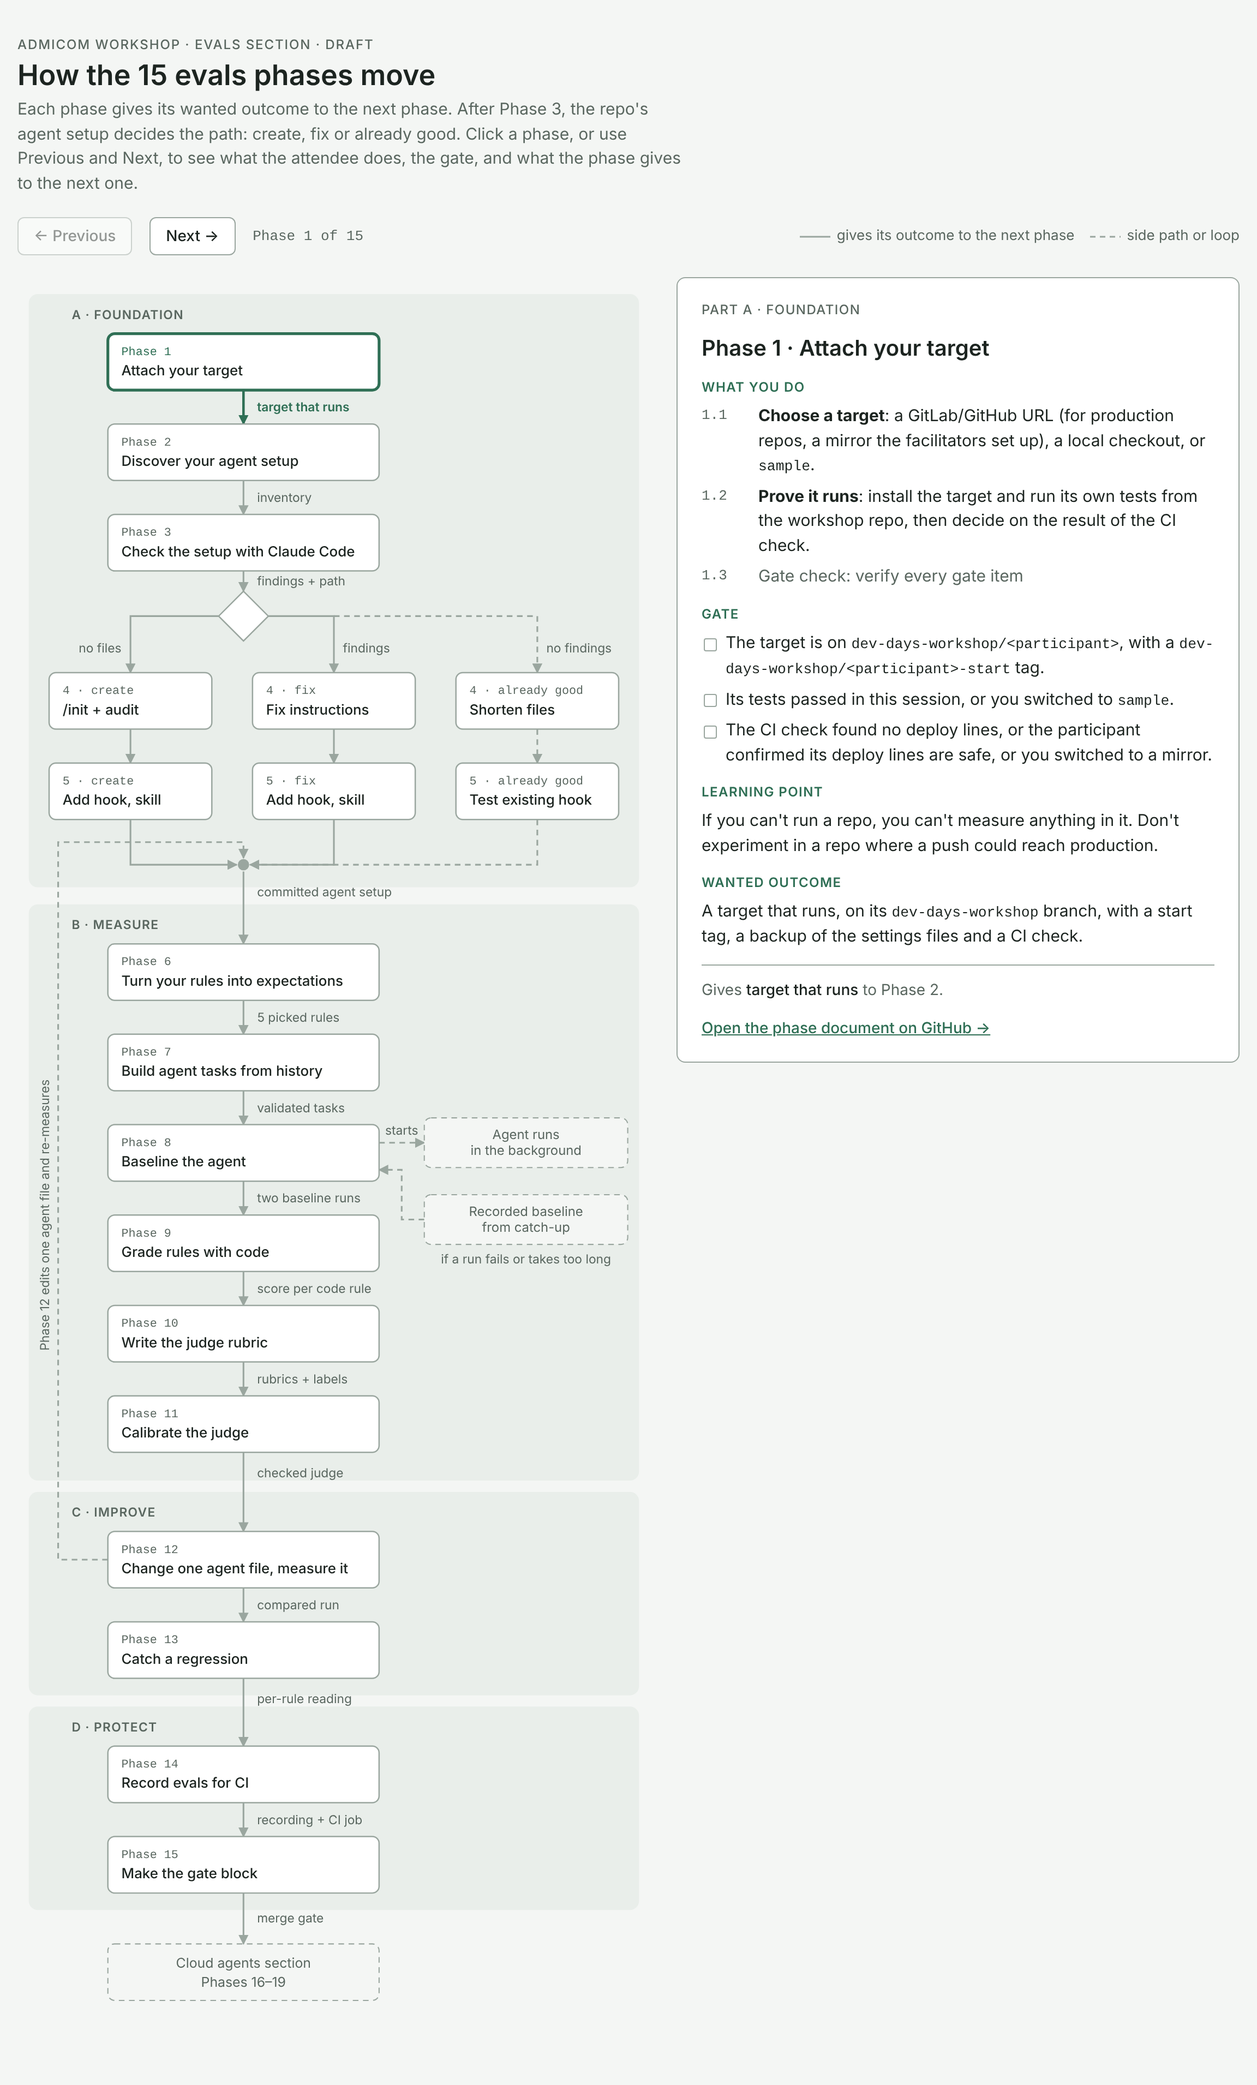
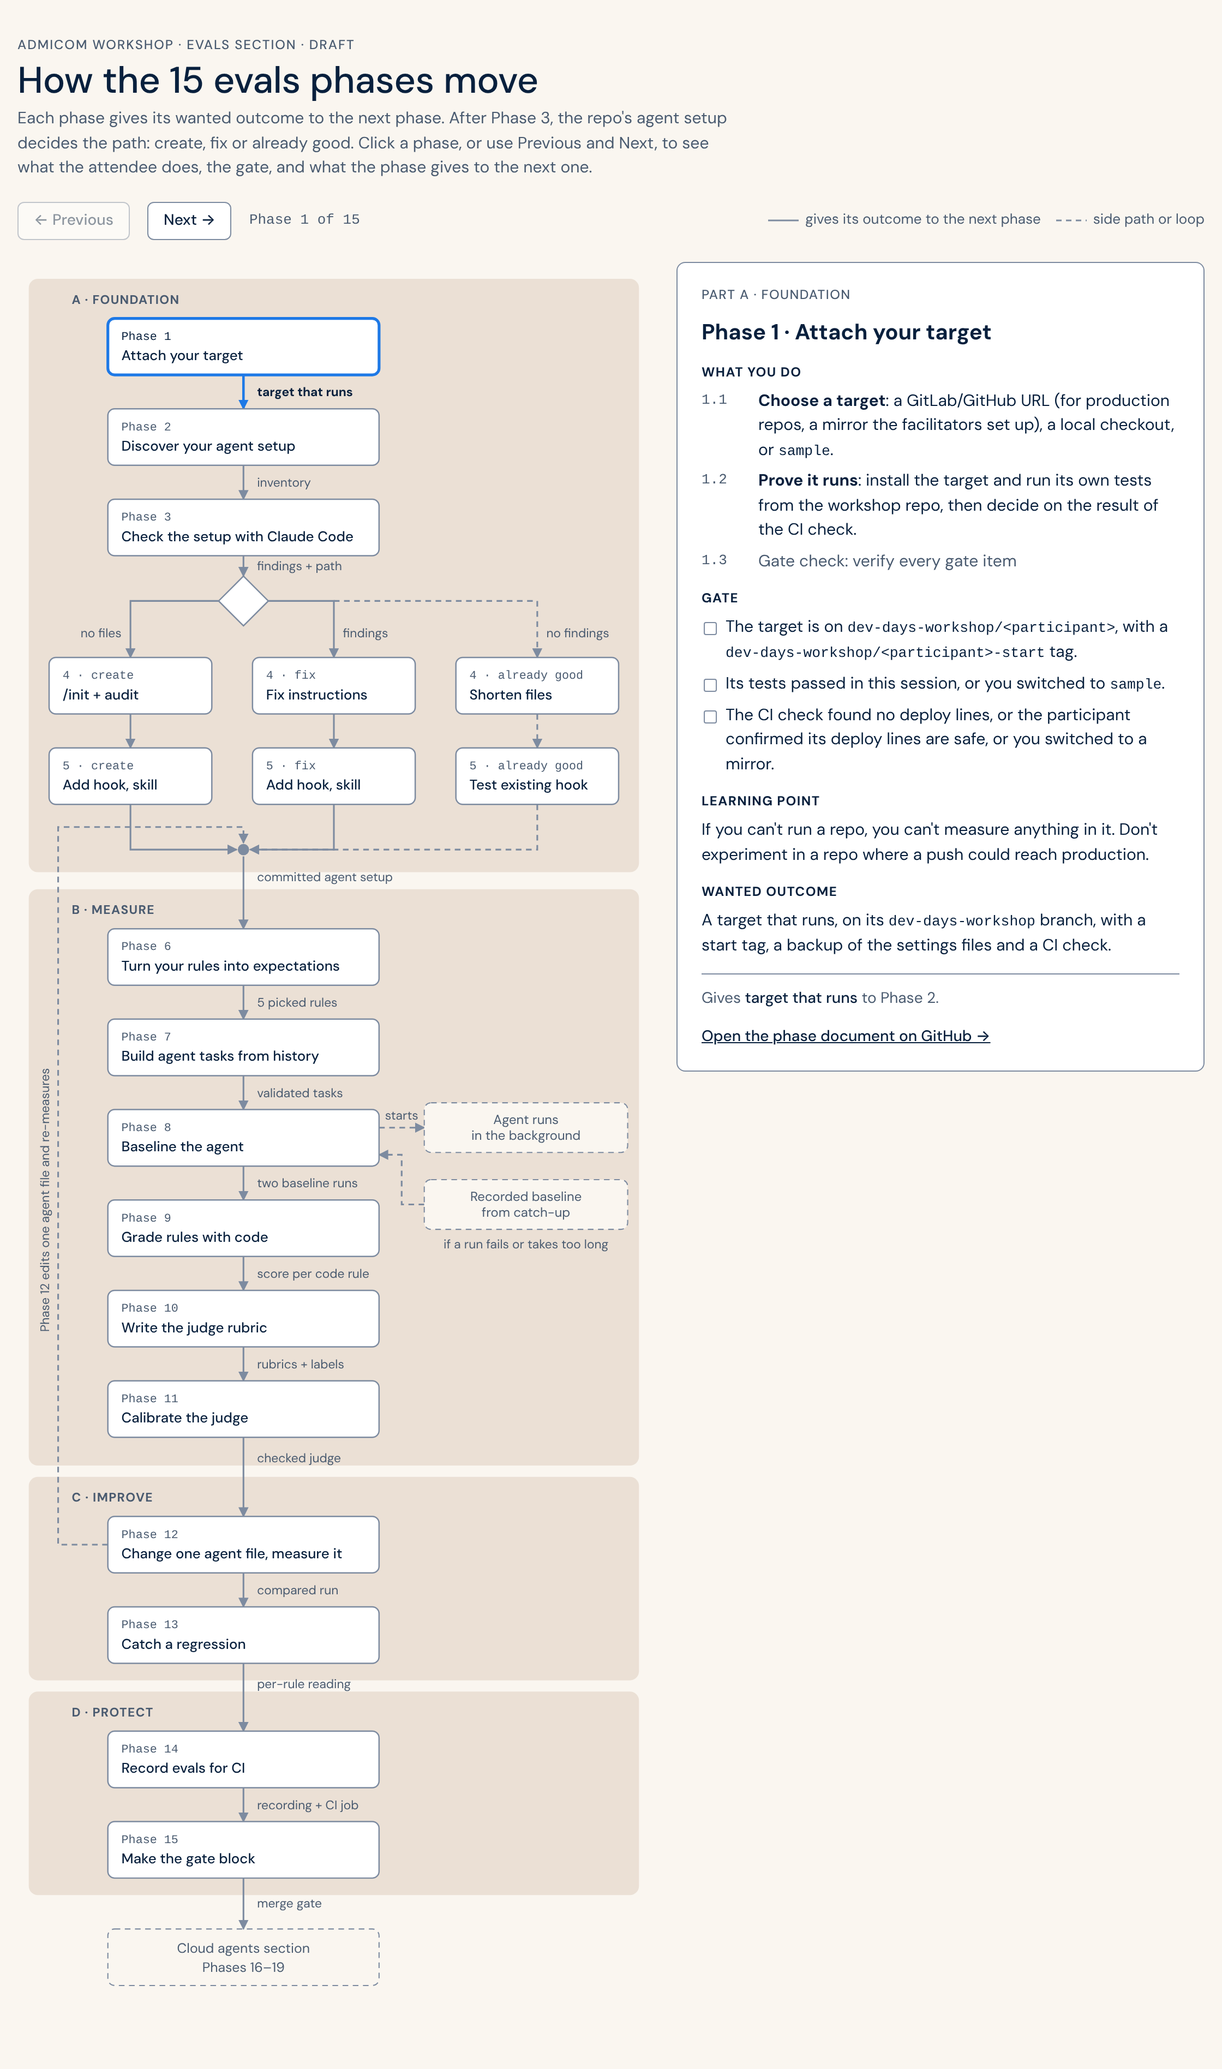
Wunderdog look for the start page and flow page: styles and pages
The logo came in 607a2c0; this adds the rest of that change:
- docs/assets/site.css: brand colours and fonts from wunderdog.fi, light
  and dark themes, shared nav bar with the logo
- start page: navy hero and cards for the flow and the slides
- flow page: brand colours, DM Sans, the nav bar; README pictures redrawn

Claude-Session: https://claude.ai/code/session_01EuyF4eNHb6VuDoPVNkBZbV

Changed region(s): [[0.0, 0.0, 0.9688, 0.9647], [0.9062, 0.0934, 0.9688, 0.1245]]

diff --git a/docs/index.html b/docs/index.html
@@ -2,58 +2,76 @@
 <html lang="en">
 <head>
 <meta charset="utf-8">
-<meta name="viewport" content="width=device-width, initial-scale=1">
+<meta name="viewport" content="width=device-width, initial-scale=1, viewport-fit=cover">
 <title>Evals & Cloud Agents Workshop</title>
+<link rel="preconnect" href="https://fonts.googleapis.com">
+<link rel="preconnect" href="https://fonts.gstatic.com" crossorigin>
+<link rel="stylesheet" href="https://fonts.googleapis.com/css2?family=DM+Sans:opsz,wght@9..40,400;9..40,500;9..40,700&family=DM+Mono:wght@400;500&display=swap">
+<link rel="stylesheet" href="assets/site.css">
 <style>
-:root {
-  --bg: #f4f6f4; --surface: #ffffff; --fg: #1c2420; --muted: #5a6760; --line: #9aa69f; --accent: #2f6f55;
-  --sans: "IBM Plex Sans", system-ui, -apple-system, "Segoe UI", sans-serif;
-}
-@media (prefers-color-scheme: dark) {
-  :root { --bg: #111714; --surface: #18201c; --fg: #e2e9e5; --muted: #98a69e; --line: #5f6d65; --accent: #7fd1a8; color-scheme: dark; }
-}
-body { margin: 0; background: var(--bg); color: var(--fg); font-family: var(--sans); font-size: 16px; line-height: 1.5; }
-nav { background: var(--surface); border-bottom: 1px solid var(--line); }
-nav ul { max-width: 760px; margin: 0 auto; padding: 0 16px; list-style: none; display: flex; flex-wrap: wrap; gap: 0 24px; }
-nav a { display: block; padding: 14px 0; color: var(--fg); font-weight: 500; font-size: 15px; text-decoration: none; }
-nav a:hover, nav a:focus-visible { color: var(--accent); text-decoration: underline; }
-main { max-width: 760px; margin: 0 auto; padding: 48px 16px; }
-.eyebrow { font-size: 12px; letter-spacing: .08em; text-transform: uppercase; color: var(--muted); font-weight: 500; }
-h1 { margin: 4px 0 8px; font-size: 28px; line-height: 1.2; font-weight: 600; }
-p { margin: 0; color: var(--muted); }
-main ul { list-style: none; padding: 0; margin: 32px 0 0; display: grid; gap: 12px; }
-main li { background: var(--surface); border: 1px solid var(--line); border-radius: 8px; padding: 16px 18px; }
-main li a { color: var(--fg); font-weight: 600; font-size: 18px; text-decoration: none; }
-main li a:hover, main li a:focus-visible { color: var(--accent); text-decoration: underline; }
-main li p { margin-top: 4px; }
-.extra { margin-top: 8px; font-size: 14px; }
-.extra a { color: var(--accent); }
+body { margin: 0; background: var(--bg); color: var(--fg); font-family: var(--sans); font-size: 16px; line-height: 1.55; }
+.hero { background: var(--wd-navy); color: var(--wd-offwhite); border-bottom: 1px solid var(--hair); }
+.hero .inner { max-width: 1120px; margin: 0 auto; box-sizing: border-box; padding: 72px 16px 80px; }
+.eyebrow { margin: 0 0 16px; font-size: 13px; letter-spacing: .14em; text-transform: uppercase; color: var(--wd-light-blue); font-weight: 500; }
+h1 { margin: 0; max-width: 14ch; font-size: clamp(40px, 7vw, 72px); line-height: 1.05; font-weight: 500; letter-spacing: -.01em; color: var(--wd-sand); }
+.hero p.lede { margin: 24px 0 0; max-width: 52ch; font-size: 18px; color: #d5dde8; }
+.cards { max-width: 1120px; margin: 0 auto; box-sizing: border-box; padding: 48px 16px 72px; display: grid; grid-template-columns: repeat(auto-fit, minmax(300px, 1fr)); gap: 20px; }
+.card { background: var(--surface); border: 1px solid var(--hair); border-radius: 16px; padding: 28px; display: flex; flex-direction: column; gap: 10px; }
+.card .num { font-family: var(--mono); font-size: 14px; color: var(--muted); }
+.card h2 { margin: 0; font-size: 30px; line-height: 1.15; font-weight: 500; }
+.card p { margin: 0; color: var(--muted); }
+.card .actions { margin-top: auto; padding-top: 14px; display: flex; flex-wrap: wrap; gap: 10px; }
+.btn { display: inline-block; padding: 10px 20px; border-radius: 999px; font-size: 15px; font-weight: 500; text-decoration: none; border: 1px solid var(--fg); }
+.btn.primary { background: var(--fg); color: var(--bg); }
+.btn.secondary { background: transparent; color: var(--fg); }
+.btn:hover { opacity: .85; }
+.btn:focus-visible { outline: 2px solid var(--accent); outline-offset: 3px; }
+footer { border-top: 1px solid var(--hair); }
+footer .inner { max-width: 1120px; margin: 0 auto; box-sizing: border-box; padding: 20px 16px 32px; font-size: 14px; color: var(--muted); }
+footer a { color: var(--fg); }
 </style>
 </head>
 <body>
-<nav aria-label="Workshop pages">
-  <ul>
-    <li><a href="phase-flow/">Evals phase flow</a></li>
-    <li><a href="slides/">Slides</a></li>
-    <li><a href="slides/evals-cloud-agents.pdf" download>Slides PDF with speaker notes</a></li>
-    <li><a href="https://github.com/wunderdogsw/evals-cloud-agents-workshop">Repository</a></li>
-  </ul>
+<nav class="site-nav" aria-label="Workshop pages">
+  <div class="inner">
+    <a class="brand" href="./" aria-label="Workshop home"><span class="wd-logo" role="img" aria-label="Wunderdog"></span></a>
+    <ul>
+      <li><a class="link" href="phase-flow/">Evals phase flow</a></li>
+      <li><a class="link" href="slides/">Slides</a></li>
+      <li><a class="link" href="slides/evals-cloud-agents.pdf" download>Slides PDF with speaker notes</a></li>
+      <li><a class="link" href="https://github.com/wunderdogsw/evals-cloud-agents-workshop">Repository</a></li>
+    </ul>
+  </div>
 </nav>
-<main>
-  <span class="eyebrow">Admicom × Wunderdog</span>
-  <h1>Evals & Cloud Agents Workshop</h1>
-  <p>Pages for the 1.5-day workshop.</p>
-  <ul>
-    <li>
-      <a href="phase-flow/">Evals phase flow</a>
-      <p>The 15 evals phases. Click a phase to see what you do, the gate, the learning point and the wanted outcome.</p>
-    </li>
-    <li>
-      <a href="slides/">Slides</a>
-      <p>The workshop slides. Use the arrow keys to move between slides. Press N or the Notes button to see the speaker notes.</p>
-      <p class="extra"><a href="slides/evals-cloud-agents.pdf" download>Download the slides as PDF, with the speaker notes after each slide</a></p>
-    </li>
-  </ul>
+
+<header class="hero">
+  <div class="inner">
+    <p class="eyebrow">Admicom × Wunderdog · DevDays workshop</p>
+    <h1>Evals & Cloud Agents</h1>
+    <p class="lede">A 1.5-day workshop. Day 1: measure how well a coding agent follows your repo's rules. Day 2: hand real work to agents and use that measurement to decide what to merge.</p>
+  </div>
+</header>
+
+<main class="cards">
+  <section class="card">
+    <span class="num">01</span>
+    <h2>Evals phase flow</h2>
+    <p>The 15 evals phases. Click a phase to see what you do, the gate, the learning point and the wanted outcome.</p>
+    <div class="actions"><a class="btn primary" href="phase-flow/">Open the flow</a></div>
+  </section>
+  <section class="card">
+    <span class="num">02</span>
+    <h2>Slides</h2>
+    <p>The workshop slides. Use the arrow keys to move between slides. Press N or the Notes button to see the speaker notes.</p>
+    <div class="actions">
+      <a class="btn primary" href="slides/">Open the slides</a>
+      <a class="btn secondary" href="slides/evals-cloud-agents.pdf" download>PDF with speaker notes</a>
+    </div>
+  </section>
 </main>
+
+<footer>
+  <div class="inner">Workshop material by Wunderdog. Source and phase documents: <a href="https://github.com/wunderdogsw/evals-cloud-agents-workshop">GitHub repository</a>.</div>
+</footer>
 </body>
 </html>

diff --git a/docs/phase-flow/index.html b/docs/phase-flow/index.html
@@ -4,34 +4,16 @@
 <meta charset="utf-8">
 <meta name="viewport" content="width=device-width,initial-scale=1,viewport-fit=cover">
 <title>Evals Phase Flow</title>
-<link rel="stylesheet" href="https://fonts.googleapis.com/css2?family=IBM+Plex+Sans:wght@400;500;600&family=IBM+Plex+Mono:wght@400;500&display=swap">
+<link rel="preconnect" href="https://fonts.googleapis.com">
+<link rel="preconnect" href="https://fonts.gstatic.com" crossorigin>
+<link rel="stylesheet" href="https://fonts.googleapis.com/css2?family=DM+Sans:opsz,wght@9..40,400;9..40,500;9..40,700&family=DM+Mono:wght@400;500&display=swap">
+<link rel="stylesheet" href="../assets/site.css">
 <style>
 /* Layout: controls on top; flowchart (vertical, scrollable) on the left, sticky phase detail on the right; stacks on phones with the detail first. */
-:root {
-  --bg: #f4f6f4;
-  --surface: #ffffff;
-  --fg: #1c2420;
-  --muted: #5a6760;
-  --line: #9aa69f;
-  --band: #e9eeea;
-  --accent: #2f6f55;
-  --accent-soft: #d7ebe1;
-  --sans: "IBM Plex Sans", system-ui, -apple-system, "Segoe UI", sans-serif;
-  --mono: "IBM Plex Mono", ui-monospace, "SF Mono", Menlo, Consolas, monospace;
-}
-@media (prefers-color-scheme: dark) {
-  :root:not([data-theme="light"]) {
-    --bg: #111714; --surface: #18201c; --fg: #e2e9e5; --muted: #98a69e; --line: #5f6d65;
-    --band: #1a231e; --accent: #7fd1a8; --accent-soft: #1f3b2e; color-scheme: dark;
-  }
-}
-:root[data-theme="dark"] {
-  --bg: #111714; --surface: #18201c; --fg: #e2e9e5; --muted: #98a69e; --line: #5f6d65;
-  --band: #1a231e; --accent: #7fd1a8; --accent-soft: #1f3b2e; color-scheme: dark;
-}
+/* Colours, fonts and the nav bar come from ../assets/site.css (Wunderdog look). */
 body { margin: 0; background: var(--bg); color: var(--fg); font-family: var(--sans); font-size: 15px; line-height: 1.5; }
 .wrap {
-  max-width: 1120px; margin: 0 auto;
+  max-width: 1120px; margin: 0 auto; box-sizing: border-box;
   padding-left: max(16px, env(safe-area-inset-left, 0px));
   padding-right: max(16px, env(safe-area-inset-right, 0px));
   padding-block: 32px 56px;
@@ -39,9 +21,9 @@ body { margin: 0; background: var(--bg); color: var(--fg); font-family: var(--sa
 }
 header { display: flex; flex-direction: column; gap: 4px; }
 .links { margin: 4px 0 0; font-size: 14px; display: flex; flex-wrap: wrap; gap: 4px 16px; }
-.links a { color: var(--accent); }
+.links a { color: var(--accent-text); }
 .eyebrow { font-size: 12px; letter-spacing: .08em; text-transform: uppercase; color: var(--muted); font-weight: 500; }
-h1 { margin: 0; font-size: 26px; line-height: 1.2; font-weight: 600; text-wrap: balance; }
+h1 { margin: 0; font-size: 34px; line-height: 1.15; font-weight: 500; letter-spacing: -.005em; text-wrap: balance; }
 .lede { margin: 0; color: var(--muted); max-width: 65ch; }
 
 .controls { display: flex; flex-wrap: wrap; align-items: center; gap: 10px 16px; }
@@ -68,7 +50,7 @@ button:focus-visible, .node:focus-visible { outline: 2px solid var(--accent); ou
 .edge.dashed { stroke-dasharray: 5 4; }
 .edge.next { stroke: var(--accent); stroke-width: 2.2; }
 .edge-label { fill: var(--muted); font: 11px var(--sans); }
-.edge-label.next { fill: var(--accent); font-weight: 600; }
+.edge-label.next { fill: var(--accent-text); font-weight: 600; }
 .node { cursor: pointer; }
 .node rect, .node polygon { fill: var(--surface); stroke: var(--line); stroke-width: 1.2; }
 .node .num { fill: var(--muted); font: 500 10.5px var(--mono); }
@@ -76,7 +58,7 @@ button:focus-visible, .node:focus-visible { outline: 2px solid var(--accent); ou
 .node:hover rect { stroke: var(--accent); }
 .node.done rect { fill: var(--accent-soft); }
 .node.current rect { stroke: var(--accent); stroke-width: 2.5; }
-.node.current .num { fill: var(--accent); }
+.node.current .num { fill: var(--accent-text); }
 .ghost rect { fill: none; stroke: var(--line); stroke-dasharray: 5 4; }
 .ghost text { fill: var(--muted); font: 12px var(--sans); }
 .side rect { fill: var(--bg); stroke: var(--line); stroke-dasharray: 5 4; }
@@ -93,7 +75,7 @@ button:focus-visible, .node:focus-visible { outline: 2px solid var(--accent); ou
 }
 .panel .part { font-size: 12px; letter-spacing: .06em; text-transform: uppercase; color: var(--muted); font-weight: 500; }
 .panel h2 { margin: 0; font-size: 20px; line-height: 1.25; font-weight: 600; text-wrap: balance; }
-.panel h3 { margin: 0 0 6px; font-size: 12px; letter-spacing: .06em; text-transform: uppercase; color: var(--accent); font-weight: 600; }
+.panel h3 { margin: 0 0 6px; font-size: 12px; letter-spacing: .06em; text-transform: uppercase; color: var(--accent-text); font-weight: 600; }
 .panel section { display: flex; flex-direction: column; }
 .panel p { margin: 0; max-width: 65ch; }
 .steps, .gate { margin: 0; padding: 0; list-style: none; display: flex; flex-direction: column; gap: 6px; }
@@ -105,10 +87,10 @@ button:focus-visible, .node:focus-visible { outline: 2px solid var(--accent); ou
 .gate li { padding-left: 22px; position: relative; }
 .gate li::before { content: ""; position: absolute; left: 2px; top: .45em; width: 10px; height: 10px; border: 1.5px solid var(--line); border-radius: 2px; }
 .branch { background: var(--bg); border-radius: 6px; padding: 10px 12px; font-size: 14px; }
-.branch strong { color: var(--accent); }
+.branch strong { color: var(--accent-text); }
 .handoff { font-size: 14px; color: var(--muted); border-top: 1px solid var(--line); padding-top: 12px; }
 .handoff strong { color: var(--fg); font-weight: 500; }
-.doclink { font-size: 14px; color: var(--accent); font-weight: 500; }
+.doclink { font-size: 14px; color: var(--accent-text); font-weight: 500; }
 .doclink:focus-visible { outline: 2px solid var(--accent); outline-offset: 2px; }
 code { font-family: var(--mono); font-size: .88em; }
 
@@ -124,12 +106,22 @@ code { font-family: var(--mono); font-size: .88em; }
 
 </head>
 <body>
+<nav class="site-nav" aria-label="Workshop pages">
+  <div class="inner">
+    <a class="brand" href="../" aria-label="Workshop home"><span class="wd-logo" role="img" aria-label="Wunderdog"></span></a>
+    <ul>
+      <li><a class="link" href="./" aria-current="page">Evals phase flow</a></li>
+      <li><a class="link" href="../slides/">Slides</a></li>
+      <li><a class="link" href="../slides/evals-cloud-agents.pdf" download>Slides PDF with speaker notes</a></li>
+      <li><a class="link" href="https://github.com/wunderdogsw/evals-cloud-agents-workshop">Repository</a></li>
+    </ul>
+  </div>
+</nav>
 <div class="wrap">
   <header>
     <span class="eyebrow">Admicom workshop · Evals section · Draft</span>
     <h1>How the 15 evals phases move</h1>
     <p class="lede">Each phase gives its wanted outcome to the next phase. After Phase 3, the repo's agent setup decides the path: create, fix or already good. Click a phase, or use Previous and Next, to see what the attendee does, the gate, and what the phase gives to the next one.</p>
-    <p class="links"><a href="../">All workshop pages</a><a href="../slides/">Slides</a><a href="../slides/evals-cloud-agents.pdf" download>Slides PDF with speaker notes</a></p>
   </header>
 
   <div class="controls">

diff --git a/docs/assets/site.css b/docs/assets/site.css
@@ -1,0 +1,59 @@
+/* Wunderdog look for the workshop pages: colours and fonts from wunderdog.fi, and the shared nav bar.
+   Brand colours: navy #08203D, blue #1E79E6, light blue #8BB8F0, orange #F77C00, sand #EBE0D5, off-white #FAF6F0.
+   Brand blue on off-white is below 4.5:1, so small text uses navy (light theme) and blue only marks lines and states. */
+:root {
+  --wd-navy: #08203d;
+  --wd-blue: #1e79e6;
+  --wd-light-blue: #8bb8f0;
+  --wd-orange: #f77c00;
+  --wd-sand: #ebe0d5;
+  --wd-offwhite: #faf6f0;
+
+  --bg: var(--wd-offwhite);
+  --surface: #ffffff;
+  --fg: var(--wd-navy);
+  --muted: #4a5b70;
+  --line: #7d8ba0;
+  --hair: var(--wd-light-blue);
+  --band: var(--wd-sand);
+  --accent: var(--wd-blue);
+  --accent-text: var(--wd-navy);
+  --accent-soft: #dce9fb;
+  --sans: "DM Sans", "Helvetica Neue", Arial, sans-serif;
+  --mono: "DM Mono", ui-monospace, "SF Mono", Menlo, Consolas, monospace;
+}
+@media (prefers-color-scheme: dark) {
+  :root:not([data-theme="light"]) {
+    --bg: var(--wd-navy); --surface: #0f2b4d; --fg: var(--wd-offwhite); --muted: #b7c3d3; --line: #6a80a0;
+    --hair: #2c4a70; --band: #0b2645; --accent: var(--wd-light-blue); --accent-text: var(--wd-light-blue);
+    --accent-soft: #1a3a63; color-scheme: dark;
+  }
+}
+:root[data-theme="dark"] {
+  --bg: var(--wd-navy); --surface: #0f2b4d; --fg: var(--wd-offwhite); --muted: #b7c3d3; --line: #6a80a0;
+  --hair: #2c4a70; --band: #0b2645; --accent: var(--wd-light-blue); --accent-text: var(--wd-light-blue);
+  --accent-soft: #1a3a63; color-scheme: dark;
+}
+
+/* Nav bar */
+.site-nav { background: var(--bg); border-bottom: 1px solid var(--hair); font-family: var(--sans); }
+.site-nav .inner {
+  max-width: 1120px; margin: 0 auto; box-sizing: border-box;
+  padding: 0 max(16px, env(safe-area-inset-left, 0px));
+  display: flex; flex-wrap: wrap; align-items: center; gap: 4px 28px; min-height: 64px;
+}
+.site-nav .brand { display: inline-flex; align-items: center; padding: 12px 0; margin-right: auto; }
+.wd-logo {
+  display: block; width: 156px; aspect-ratio: 3843 / 222; background: var(--fg);
+  -webkit-mask: url("wunderdog-logo-rbg-black.png") center / contain no-repeat; mask: url("wunderdog-logo-rbg-black.png") center / contain no-repeat;
+}
+.site-nav ul { list-style: none; margin: 0; padding: 0; display: flex; flex-wrap: wrap; gap: 0 24px; }
+.site-nav a.link { display: block; padding: 10px 0; color: var(--fg); font-size: 15px; font-weight: 500; text-decoration: none; }
+.site-nav a.link:hover, .site-nav a.link:focus-visible { text-decoration: underline; text-underline-offset: 4px; }
+.site-nav a.link[aria-current="page"] { text-decoration: underline; text-decoration-color: var(--accent); text-decoration-thickness: 2px; text-underline-offset: 6px; }
+.site-nav a:focus-visible { outline: 2px solid var(--accent); outline-offset: 2px; }
+@media (max-width: 640px) {
+  .site-nav .inner { padding-block: 8px; }
+  .site-nav ul { gap: 0 18px; }
+  .site-nav a.link { font-size: 14px; padding: 6px 0; }
+}

diff --git a/README.md b/README.md
@@ -27,6 +27,7 @@ evals-cloud-agents-workshop/       ← open THIS in Cursor / Claude Code
 ├── kit/catchup/                   ← reference work for `pnpm workshop catchup`
 ├── docs/phase-flow/               ← interactive evals flow (GitHub Pages), built from the phase docs
 ├── docs/slides/                   ← workshop slides, speaker notes and the PDF (GitHub Pages)
+├── docs/assets/                   ← Wunderdog logo (from wunderdog.fi) and the shared look of the pages (site.css)
 ├── samples/cost-coder/            ← sample target (TypeScript) with an agent setup that has problems on purpose
 ├── targets/                       ← gitignored — your attached repo(s) land here
 └── .workshop/                     ← gitignored — progress, repo profile, notes, labels
